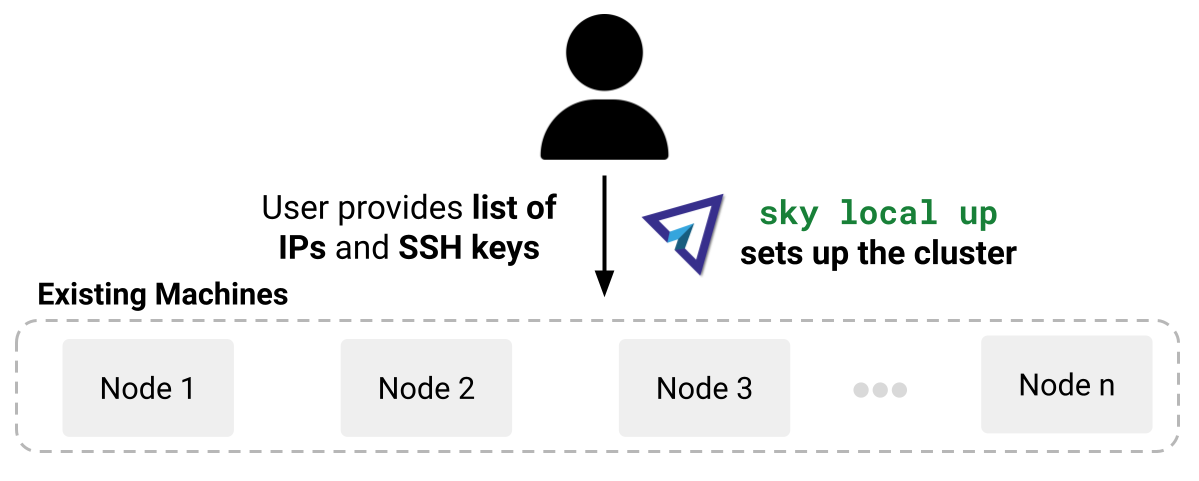
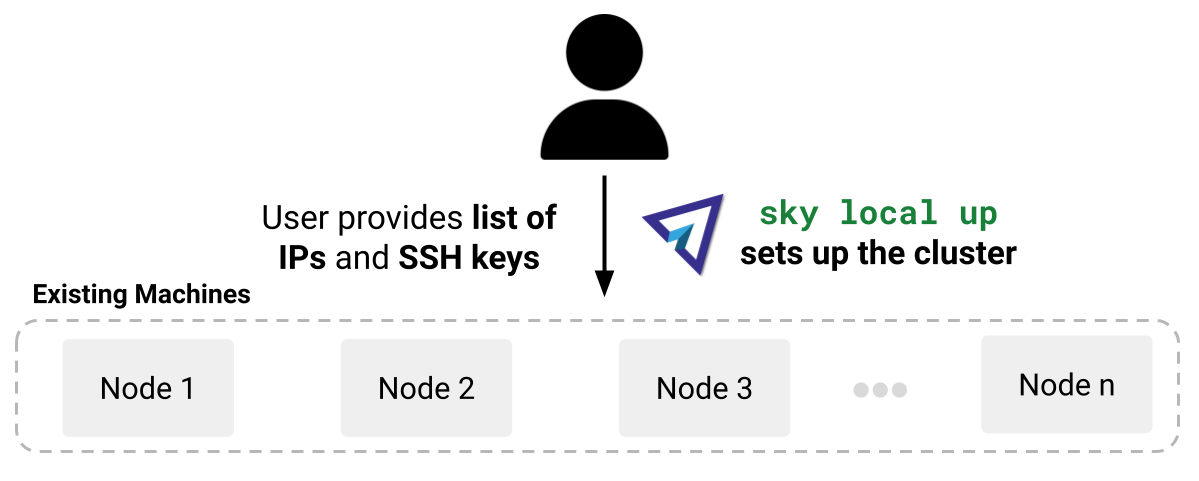
Update images

Changed region(s): [[0.216, 0.4054, 0.4629, 0.5613], [0.0309, 0.5613, 0.2469, 0.6549]]

diff --git a/docs/source/_static/custom.js b/docs/source/_static/custom.js
@@ -32,7 +32,7 @@ document.addEventListener('DOMContentLoaded', () => {
         { selector: '.toctree-l1 > a', text: 'Reserved, Capacity Blocks, DWS' },
         { selector: '.toctree-l1 > a', text: 'Llama 3.2 (Meta)' },
         { selector: '.toctree-l1 > a', text: 'Admin Policy Enforcement' },
-        { selector: '.toctree-l1 > a', text: 'Using Existing Clusters' },
+        { selector: '.toctree-l1 > a', text: 'Using Existing Machines' },
     ];
     newItems.forEach(({ selector, text }) => {
         document.querySelectorAll(selector).forEach((el) => {
